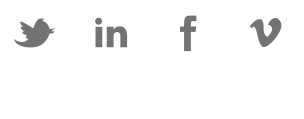
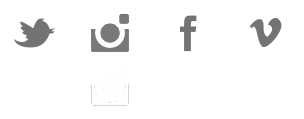
finalizando home

diff --git a/css/austrini.css b/css/austrini.css
@@ -11,9 +11,89 @@
 
 /*-------------------------------------------------------------------------------*/
 /*                                                                               */
+/*        FEEDBACK DESTAQUES                                                     */
+/*                                                                               */
+/*-------------------------------------------------------------------------------*/
+
+#destaques #carousel-feedback .carousel-control-container {
+    height: 60px;
+    position: absolute;
+    top: auto;
+    right: auto;
+    bottom: auto;
+    left: 0;
+    z-index: 4;
+    width: 100%;
+}
+
+#destaques #carousel-feedback .carousel-control-container a {
+    background-image: none;
+    color: #000;
+    width: 50%;
+}
+
+#destaques #carousel-feedback .carousel-control-container a.left span,
+#destaques #carousel-feedback .carousel-control-container a.right span {
+    font-size: 30px;
+    position: absolute;
+    top: 10px;
+    right: auto;
+    bottom: auto;
+    left: auto;
+    z-index: 1;
+}
+
+#destaques #carousel-feedback .carousel-control-container a.left span {
+    right: 10%;
+}
+
+#destaques #carousel-feedback .carousel-control-container a.right span {
+    left: 10%;
+}
+
+#destaques #carousel-feedback .carousel-indicators {
+    z-index: 3;
+    bottom: -48px;
+}
+
+#destaques #carousel-feedback .carousel-indicators li {
+    border: 1px solid #888;
+    -webkit-border-radius: 2px;
+    -khtml-border-radius: 2px;
+    -moz-border-radius: 2px;
+    -o-border-radius: 2px;
+    border-radius: 2px;
+}
+
+#destaques #carousel-feedback .carousel-indicators li.active {
+    background-color: #888888;
+}
+
+#destaques .feedback-user .text {
+    border: 1px solid #E5E5E5;
+    border-top: none;
+    display: block;
+    padding: 10px 10px 16px;
+    font-size: 14px;
+    line-height: 16px;
+
+}
+
+.feedback-user .img-circle {
+    background-color: #ffffff;
+    border: 1px solid #e5e5e5;
+    height: 180px;
+    margin-top: -100px;
+    padding: 7px;
+    width: 180px;
+}
+
+/*-------------------------------------------------------------------------------*/
+/*                                                                               */
 /*        NOTICIAS DESTAQUE                                                      */
 /*                                                                               */
 /*-------------------------------------------------------------------------------*/
+
 #destaques .post {
     position: relative;
     padding-bottom: 20px;
@@ -41,6 +121,10 @@
     background-color: #ffffff;
     border-left: 1px solid #EFEFEF;
     border-right: 1px solid #EFEFEF;
+    display: block;
+    padding: 10px 20px;
+    font-size: 14px;
+    line-height: 16px;
 }
 
 #destaques .post-date {
@@ -90,11 +174,6 @@
     margin-left: -20px;
 }
 
-#destaques .post-container {
-    display: block;
-    padding: 20px;
-}
-
 /*-------------------------------------------------------------------------------*/
 /*                                                                               */
 /*        NOTICIAS DESTAQUE                                                      */
@@ -134,6 +213,10 @@ body,
   -webkit-transition-property: opacity;
           transition-property: opacity;
 }
+
+.carousel-fade .carousel-inner .item img {
+    border: 13px solid #F1F3F2!important;
+}
 .carousel-fade .carousel-inner .active {
   opacity: 1;
 }
@@ -156,4 +239,141 @@ body,
 .carousel-inner,
 .carousel-inner .item {
   height: 100%;
+}
+
+/*-------------------------------------------------------------------------------*/
+/*                                                                               */
+/*        ABOUT HOME                                                             */
+/*                                                                               */
+/*-------------------------------------------------------------------------------*/
+
+#destaques section {
+    background-color: #6c6e6c;
+    color: #FFF;
+    padding-top: 20px;
+    padding-bottom: 0;
+}
+
+#destaques section a {
+    display: block;
+    color: #EEE;
+    background: url(../images/arrow.png) no-repeat scroll left 5px;
+    padding-left: 15px;
+}
+
+#destaques section a:hover,
+#destaques section a:focus {
+    color: #06d0d8;
+    text-decoration: none;
+    padding-left: 20px;
+}
+
+#destaques .logo {
+    display: block;
+    float: left;
+    margin: 6px 10px 25px 0;
+    text-align: center;
+}
+
+#destaques .title {
+    display: block;
+    font-size: 22px;
+    margin-bottom: 20px;
+    padding-bottom: 14px;
+    border-bottom: 1px dotted #AAA;
+}
+
+#destaques .text {
+    display: block;
+    padding-bottom: 20px;
+}
+
+#destaques .text:after {
+    content: '';
+    clear: both;
+    display: block;
+}
+
+#destaques ul.social-icons {
+    margin: 10px 0;
+    padding: 0;
+    list-style: none;
+}
+
+#destaques ul.social-icons li {
+    float: left;
+}
+
+#destaques ul.social-icons li a {
+    background: url(../images/social-icon.png) no-repeat scroll center center #ffffff;
+    width: 50px;
+    height: 50px;
+    overflow: hidden;
+    position: relative;
+    margin: 0 10px 20px 0;
+    -webkit-border-radius: 3px;
+    -khtml-border-radius: 3px;
+    -moz-border-radius: 3px;
+    -o-border-radius: 3px;
+    border-radius: 3px;
+}
+
+#destaques ul.social-icons li a.twitter-icon {
+    background-position: -8px -8px;
+}
+
+#destaques ul.social-icons li a.twitter-icon:hover {
+    background-position: -8px -61px;
+    background-color: #5ea9dd;
+}
+
+#destaques ul.social-icons li a.facebook-icon {
+    background-position: -164px -8px;
+}
+
+#destaques ul.social-icons li a.facebook-icon:hover {
+    background-position: -164px -61px;
+    background-color: #3b5998;
+}
+
+#destaques ul.social-icons li a.linkedin-icon {
+    background-position: -85px -8px;
+}
+
+#destaques ul.social-icons li a.linkedin-icon:hover {
+    background-position: -85px -61px;
+    background-color: #0077b5;
+}
+
+#destaques ul.social-icons li a.vimeo-icon {
+    background-position: -242px -6px;
+}
+
+#destaques ul.social-icons li a.vimeo-icon:hover {
+    background-position: -242px -59px;
+    background-color: #17b3e8;
+}
+
+#destaques ul.social-icons li a span {
+    position: absolute;
+    top: auto;
+    right: auto;
+    bottom: auto;
+    left: -2000px;
+    z-index: 1;
+}
+
+#destaques ul.link-extra {
+    list-style: none;
+    padding: 0;
+    margin: 0;
+}
+
+#destaques .credits {
+    background-color: #555555;
+    color: #AAA;
+    font-size: 14px;
+    margin: 24px 0 0;
+    padding: 16px;
+    text-align: center;
 }

diff --git a/css/custom.css b/css/custom.css
@@ -1240,66 +1240,6 @@ header {
     width: calc(100% - 1px)!important;
 }
 
-/*-------------------------------------------------------------------------------*/
-/*                                                                               */
-/*        2.6.1 HOME DESTAQUES STYLE                                                */
-/*                                                                               */
-/*-------------------------------------------------------------------------------*/
-
-#destaques #carousel-feedback .carousel-control-container {
-    height: 60px;
-    position: absolute;
-    top: auto;
-    right: auto;
-    bottom: auto;
-    left: 0;
-    z-index: 4;
-    width: 100%;
-}
-
-#destaques #carousel-feedback .carousel-control-container a {
-    background-image: none;
-    color: #000;
-    width: 50%;
-}
-
-#destaques #carousel-feedback .carousel-control-container a.left span,
-#destaques #carousel-feedback .carousel-control-container a.right span {
-    font-size: 30px;
-    position: absolute;
-    top: 10px;
-    right: auto;
-    bottom: auto;
-    left: auto;
-    z-index: 1;
-}
-
-#destaques #carousel-feedback .carousel-control-container a.left span {
-    right: 10%;
-}
-
-#destaques #carousel-feedback .carousel-control-container a.right span {
-    left: 10%;
-}
-
-#destaques #carousel-feedback .carousel-indicators {
-    z-index: 3;
-    bottom: -48px;
-}
-
-#destaques #carousel-feedback .carousel-indicators li {
-    border: 1px solid #888;
-    -webkit-border-radius: 2px;
-    -khtml-border-radius: 2px;
-    -moz-border-radius: 2px;
-    -o-border-radius: 2px;
-    border-radius: 2px;
-}
-
-#destaques #carousel-feedback .carousel-indicators li.active {
-    background-color: #888888;
-}
-
 .feedback-user {
     text-align: center;
     margin-top: 100px;

diff --git a/home.html b/home.html
@@ -98,7 +98,7 @@
                         </header>
                         <span class="post-container">Vestibulum nec lorem sed justo scelerisque consequat ut ac lorem. Lorem ipsum dolor sit amet, consectetur.</span>
                         <footer class="text-center">
-                            <a href="#" class="btn btn-default">Read more</a>
+                            <a href="#" class="btn btn-default">Ver mais</a>
                         </footer>
                     </article>
                 </div>
@@ -152,6 +152,26 @@
 			 	</div><!-- end Feedback Block -->
 			</div>
 		</div>
+		<section>
+			<div class="container">
+				<div class="row">
+					<div class="col-md-8 col-sm-12 wow fadeInDown" data-wow-duration="1s" data-wow-delay="0.3s">
+						<span class="title">Resumo sobre nós</span>
+						<span class="text">
+						    <span class="logo"><img src="img/mini-logo-austrini.png" alt="logo" /></span>
+							A AUSTRINI é uma empresa que desenvolve soluções diferenciadas e inovadoras, voltadas ao bem estar.
+						</span>
+					</div>
+					<div class="col-md-4 col-sm-6 col-xs-6 wow fadeInDown" data-wow-duration="1s" data-wow-delay="0.5s">
+						<span class="title">Junte-se a nós</span>
+						<ul class="social-icons">
+							<li><a class="facebook-icon" href="#"><span>facebook</span></a></li>
+							<li><a class="linkedin-icon" href="#"><span>instagran</span></a></li>
+						</ul>
+					</div>
+				</div>
+			</div>
+		</section>
 	</section>
 	<section id="package">
 		<div class="container">
